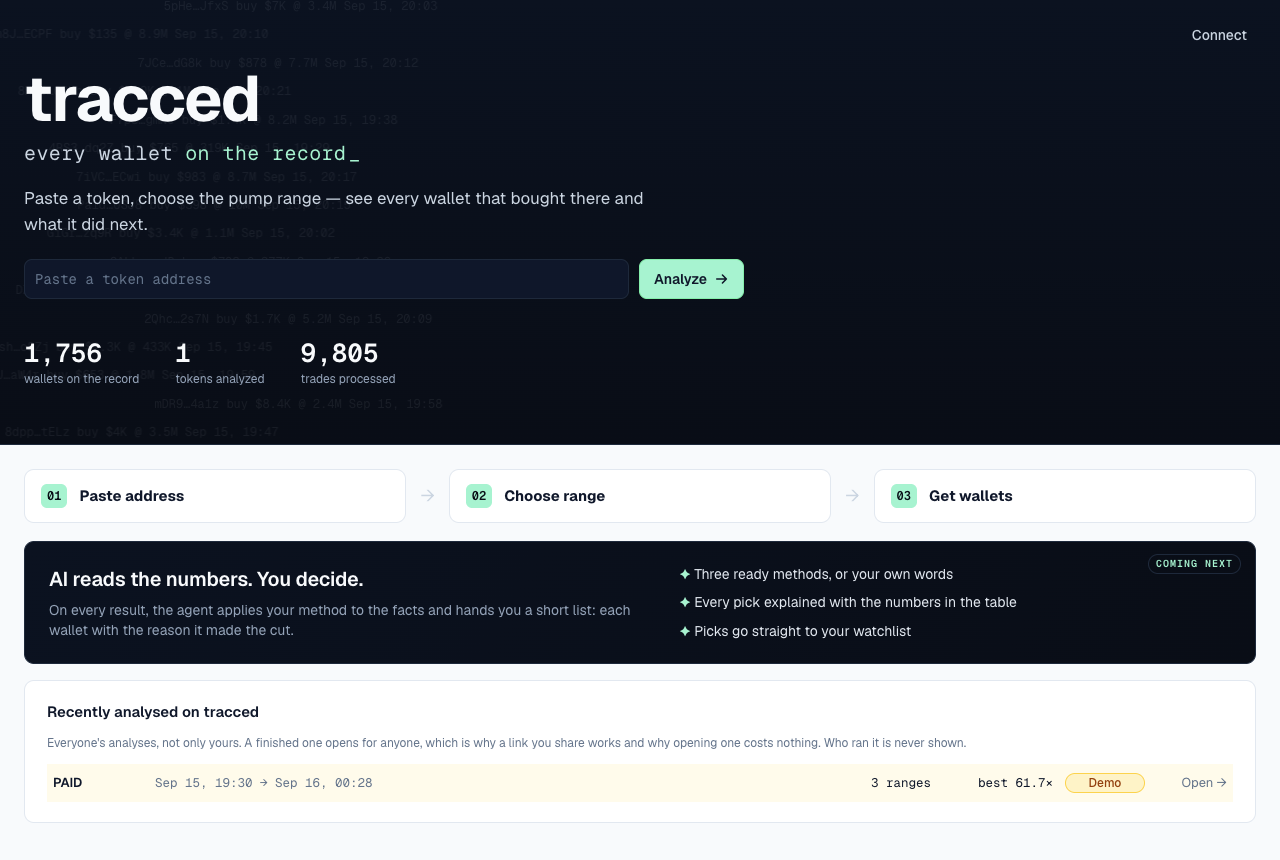
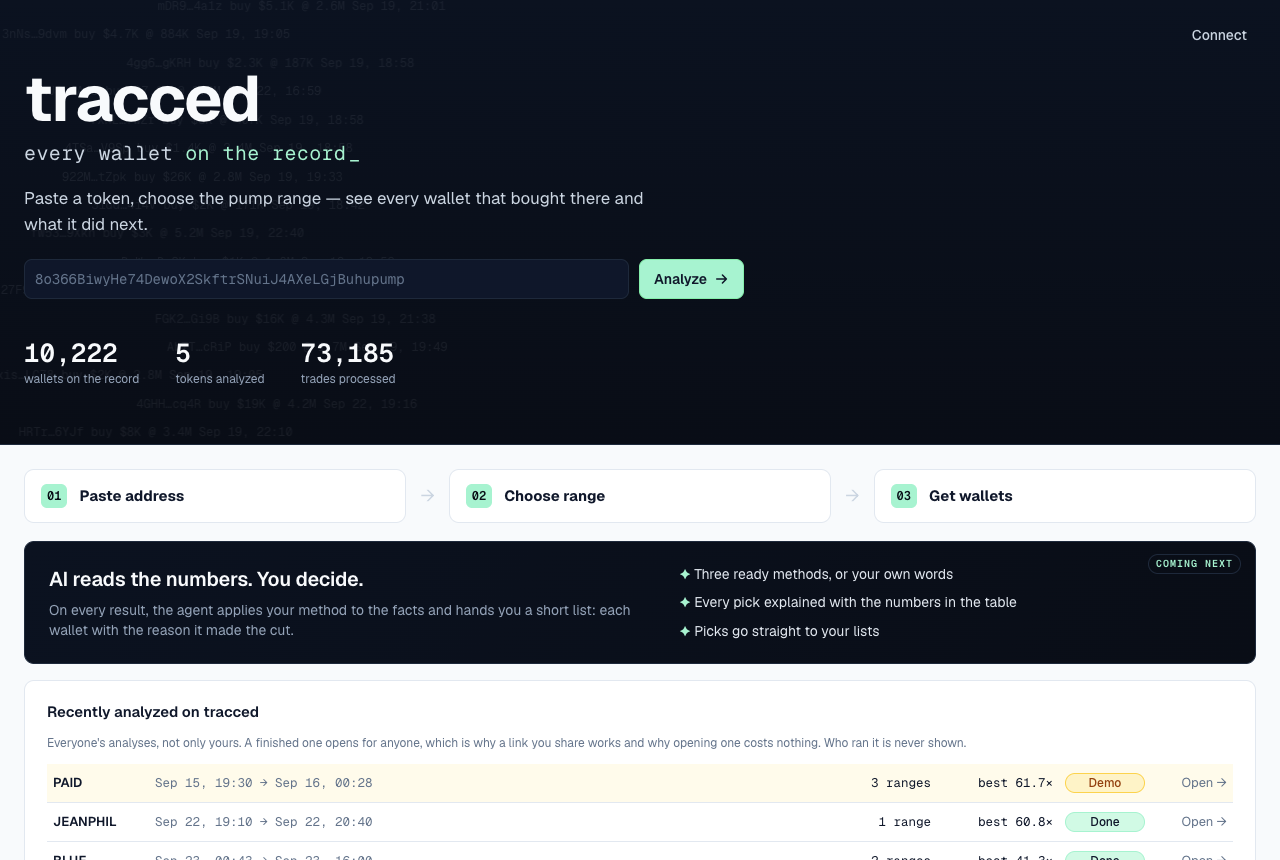
README: v0.4 screenshots, and the wallet card among them

diff --git a/README.md b/README.md
@@ -40,6 +40,8 @@ positions, average hold, counted by tracced from the wallet's own swaps. When So
 is, small marks say so: a star for a KOL, its X account, the app it trades through.
 [The wallet card →](https://tracced.xyz/docs/how-it-works#the-wallet-card)
 
+![Wallet card](docs/img/card.png)
+
 Keep what you find in several named lists, tag wallets in your own words, and export a list as CSV or TXT.
 [Your account →](https://tracced.xyz/docs/account)
 
